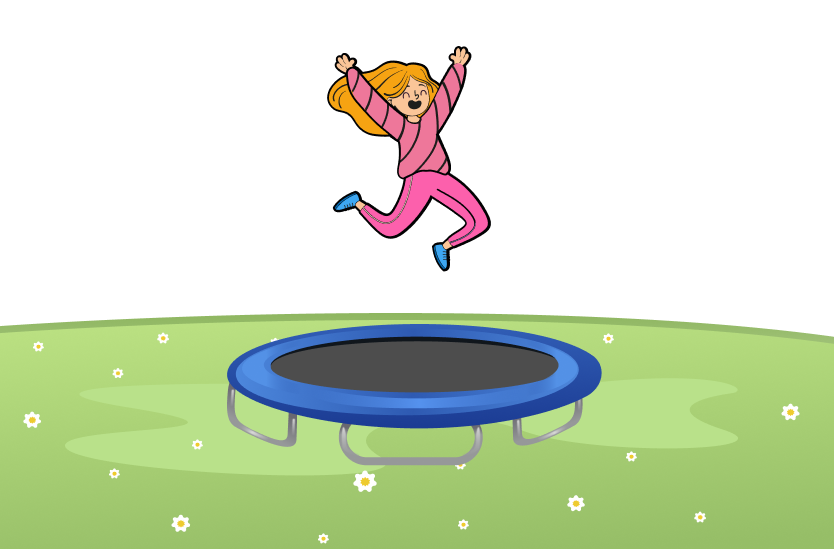
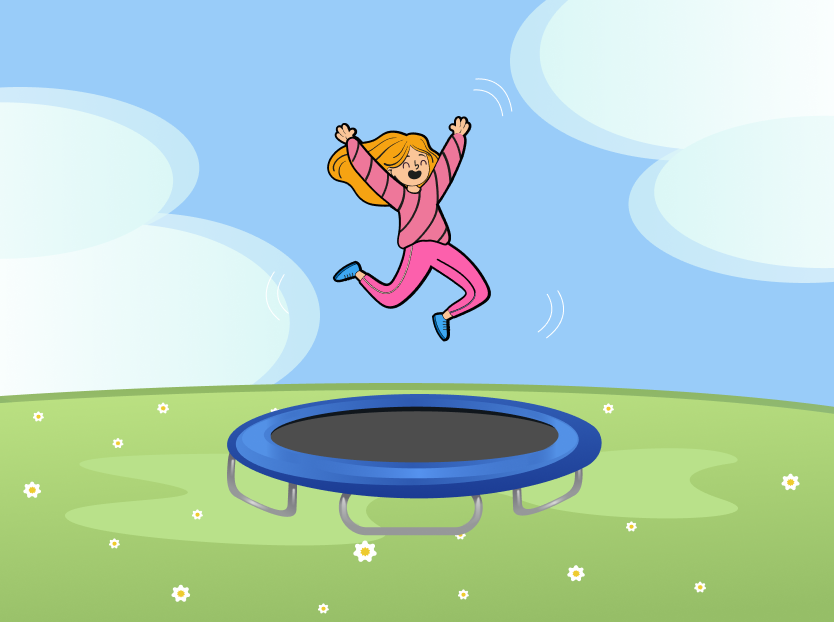
1

diff --git a/src/scss/intro.scss b/src/scss/intro.scss
@@ -1,5 +1,17 @@
 .intro {
 	position: relative;
+	background: url("@img/intro/intro-bg.png") #a7d0f6 center/ cover no-repeat;
+
+	@media (min-width: $tablet) {
+		overflow: hidden;
+	}
+	@media (max-width: $tablet) {
+		background: #a7d0f6 url("@img/intro/intro-bg-tablet.png") center / cover no-repeat;
+	}
+
+	@media (max-width: $mobile) {
+		background: #a7d0f6 url("@img/intro/intro-bg-mobile.png") center / cover;
+	}
 
 	&__container {
 		padding-top: 15%;
@@ -7,6 +19,11 @@
 		display: flex;
 		flex-direction: column;
 		align-items: center;
+
+		@media (max-width: $tablet) {
+			padding-top: 17%;
+			padding-bottom: rem(150);
+		}
 	}
 
 	&__title {
@@ -16,41 +33,72 @@
 	&__text {
 		text-align: center;
 		margin-bottom: rem(40);
+		@media (max-width: $tablet) {
+			color: $white;
+			font-weight: 900;
+			margin-bottom: rem(70);
+		}
 	}
 
-	&__decor {
-		position: absolute;
-		top: 0;
-		left: 0;
-		width: 100%;
-		height: 100%;
-		overflow: hidden;
-		z-index: 0;
-	}
-}
-
-.decor {
-	background: url("@img/intro/intro-bg.png") #a7d0f6 center/ cover no-repeat;
-	@media (max-width: $tablet) {
-		padding-top: 22px;
-		background: url("@img/intro/intro-bg-tablet.png") #a7d0f6 bottom/ cover no-repeat;
-	}
-	z-index: -1;
-	&__plate-left {
-		position: absolute;
-		bottom: rem(-5);
-		left: rem(-30);
+	&__button {
 		@media (max-width: $tablet) {
 			display: none;
 		}
 	}
+
+	&__buttons {
+		@media (max-width: $tablet) {
+			display: flex;
+			width: 100%;
+			gap: rem(20);
+		}
+		@media (max-width: $mobile) {
+			flex-direction: column;
+		}
+	}
+
+	&__plate-left {
+		position: absolute;
+		bottom: rem(-35);
+		left: rem(-100);
+		width: rem(323);
+		height: rem(292);
+		@media (max-width: $tablet) {
+			width: rem(108);
+			height: rem(103);
+			bottom: rem(-20);
+			left: rem(-40);
+			transform: rotate(20deg);
+		}
+		@media (max-width: $mobile) {
+			display: block;
+			width: rem(56);
+			height: rem(51);
+			bottom: rem(-10);
+			left: rem(-20);
+		}
+	}
 	&__plate-right {
 		position: absolute;
-		bottom: rem(-5);
-		right: rem(-20);
+		bottom: rem(-35);
+		right: rem(-100);
+		width: rem(350);
+		height: rem(324);
 
 		@media (max-width: $tablet) {
-			display: none;
+			width: rem(99);
+			height: rem(95);
+			bottom: rem(-20);
+			right: rem(-20);
+			transform: rotate(-40deg);
+		}
+
+		@media (max-width: $mobile) {
+			display: block;
+			width: rem(56);
+			height: rem(51);
+			bottom: rem(-10);
+			right: rem(-10);
 		}
 	}
 }

diff --git a/src/home.html b/src/home.html
@@ -12,20 +12,19 @@
 				<div class="intro__container">
 					<h1 class="intro__title title title_h1">детские тренировки на&nbsp;батутах x-kids</h1>
 					<p class="intro__text text text_big">в Санкт-Петербурге</p>
-					<button type="button" class="button button_dark-tangerine button_medium">Записаться</button>
+					<button type="button" class="intro__button button button_dark-tangerine button_medium">Записаться</button>
 					<div class="intro__buttons">
 						<button class="button button_dark-tangerine button_small" type="button">Оставить заявку</button>
 						<a class="button button_dark-cerulean button_small" href=”tel:+79876543210”>+7 (987) 654-32-10 </a>
 					</div>
 				</div>
-				<div class="intro__decor decor">
-					<svg class="decor__plate-left" width="295.5" height="293">
-						<use xlink:href="@img/icons/icons.svg#svg-plate-left"></use>
-					</svg>
-					<svg class="decor__plate-right" width="295.5" height="293">
-						<use xlink:href="@img/icons/icons.svg#svg-plate-right"></use>
-					</svg>
-				</div>
+				<svg class="intro__plate-left" width="295.5" height="293">
+					<use xlink:href="@img/icons/icons.svg#svg-plate-left"></use>
+				</svg>
+				<svg class="intro__plate-right" width="295.5" height="293">
+					<use xlink:href="@img/icons/icons.svg#svg-plate-right"></use>
+				</svg>
+
 			</section>
 
 		</main>

diff --git a/src/scss/header.scss b/src/scss/header.scss
@@ -1,5 +1,6 @@
 .header {
 	position: relative;
+	z-index: 2;
 
 	@media (max-width: $tablet) {
 		position: absolute;
@@ -26,6 +27,18 @@
 			display: flex;
 			justify-content: space-between;
 			align-items: center;
+		}
+	}
+
+	&__logo {
+		@media (max-width: $tablet) {
+			width: rem(143);
+			height: rem(56);
+		}
+
+		@media (max-width: $mobile) {
+			width: rem(102);
+			height: rem(40);
 		}
 	}
 
@@ -130,6 +143,7 @@
 			position: absolute;
 			top: 0;
 			right: 0;
+			left: 0;
 			transition: clip-path ease-in-out 700ms;
 			z-index: 4;
 			flex-direction: column;
@@ -141,6 +155,7 @@
 			&[data-state="opened"] {
 				animation: clipPathCircleOpen 750ms ease-in-out forwards;
 				display: block;
+				width: 100%;
 			}
 
 			&[data-state="closing"] {
@@ -211,7 +226,7 @@
 		display: block;
 		position: relative;
 		width: rem(30);
-		height: rem(20);
+		height: rem(10);
 		padding: rem(15);
 		border-radius: rem(2);
 		outline: none;
@@ -240,7 +255,7 @@
 			width: 100%;
 			height: rem(2);
 			border-radius: rem(5);
-			background-color: $accentColor;
+			background-color: $dark-cerulean;
 		}
 		&::before {
 			top: 0;

diff --git a/src/html/_header.htm b/src/html/_header.htm
@@ -1,7 +1,7 @@
 <header class="header" data-scroll="80" data-scroll-show>
 	<div class="header__container">
 		<div class="header__top">
-			<img src="@img/Logo.png" alt="Log" width="139" height="54">
+			<img class="header__logo" src="@img/Logo.png" alt="Log" width="139" height="54">
 			<ul class="header__list-top" data-da=".menu__body, 1023.98,1">
 				<li class="header__menu-item"><a href="" class="header__link">Наши достижения</a></li>
 				<li class="header__menu-item"><a href="" class="header__link">Тренеры</a></li>

diff --git a/src/scss/base/forms/button.scss b/src/scss/base/forms/button.scss
@@ -8,6 +8,7 @@
 	color: $white;
 	box-sizing: border-box;
 	border-radius: rem(25);
+	width: 100%;
 	transition:
 		opacity 0.3s ease 0s,
 		text-decoration 0.3s ease 0s;
@@ -16,6 +17,9 @@
 		padding: rem(11);
 		width: rem(167);
 		font-size: rem(13);
+		@media (max-width: $tablet) {
+			width: 100%;
+		}
 	}
 
 	&_medium {
@@ -30,6 +34,11 @@
 
 	&_dark-cerulean {
 		background-color: $dark-cerulean;
+		@media (max-width: $tablet) {
+			background-color: inherit;
+			border-radius: 25px;
+			border: 2px solid $white;
+		}
 	}
 
 	&_white {

diff --git a/src/scss/common.scss b/src/scss/common.scss
@@ -47,16 +47,25 @@
 	font-family: $fontFamilyTitle;
 
 	&_h1 {
+		@include adaptiveValue("font-size", 65, 40);
 		font-size: rem(65);
 		text-align: center;
 		font-weight: 400;
 		line-height: normal;
+
+		@media (max-width: $tablet) {
+			font-size: rem(40);
+		}
 	}
 }
 
 .text {
 	&_big {
 		font-size: rem(25);
+
+		@media (max-width: $tablet) {
+			font-size: rem(19);
+		}
 	}
 }
 //========================================================================================================================================================
